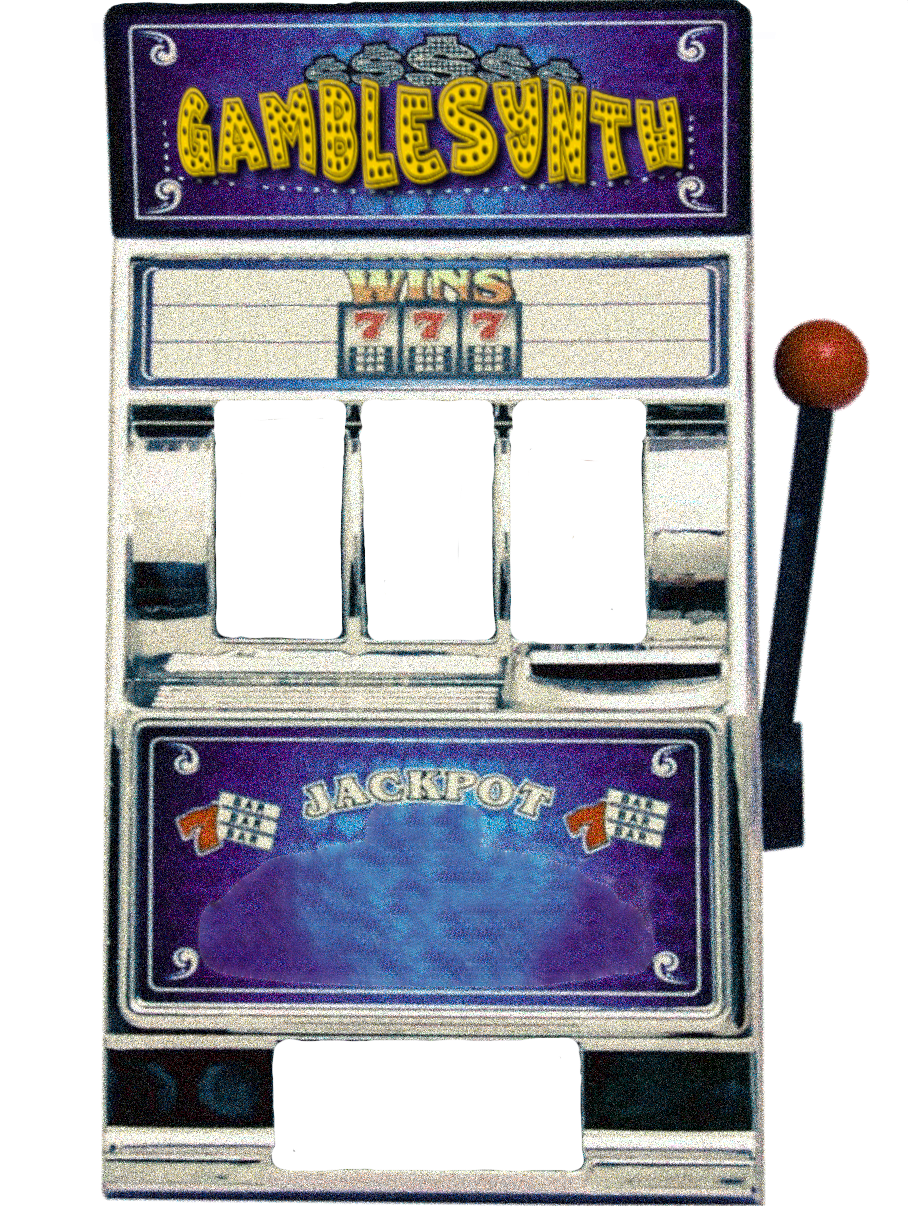
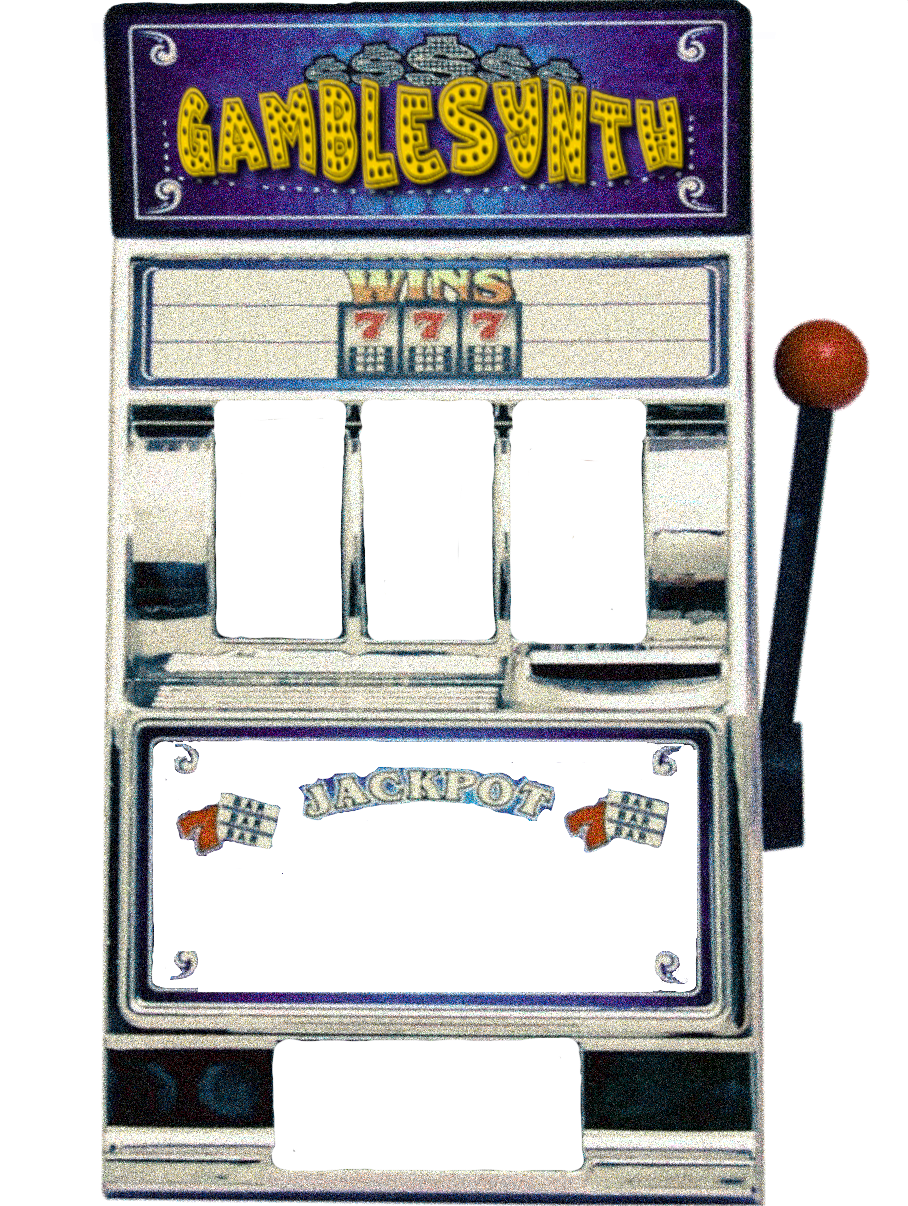
New cabinet: keyboard in the JACKPOT window, seed in the coin tray
The updated artwork turns the JACKPOT panel into a real cut-out, so the
keyboard now sits inside the machine rather than below it.

Getting the keys *under* the cabinet needed a change of approach: JUCE child
components always draw above their parent, so the keyboard would have covered
the artwork. The cabinet is now drawn by a mouse-transparent overlay layered
above the keyboard and below every control - keys show through the window with
the frame overlapping them, and clicks still reach the keys.

The JACKPOT banner is opaque down to y=856, measured off the alpha channel, so
the keys start below it instead of being half-hidden by it. Both cut-outs get a
dark backing, without which they showed raw backdrop and nothing on them was
readable.

Seed display, entry and GO now live together in the coin tray. Transport and
meter moved up to the WINS strip.

Changed region(s): [[0.1542, 0.6136, 0.7709, 0.8284]]

diff --git a/src/PluginEditor.cpp b/src/PluginEditor.cpp
@@ -68,6 +68,14 @@ GambleSynthEditor::GambleSynthEditor (GambleSynthProcessor& p)
         for (int k = 0; k < 3; ++k)
             addAndMakeVisible (reels.add (new ReelDisplay (proc, (ReelDisplay::Kind) k)));
 
+        // Cabinet sits above the keyboard but below every control, so the keys
+        // show through the JACKPOT window while buttons stay clickable.
+        overlay = std::make_unique<MachineOverlay> (skin);
+        addAndMakeVisible (*overlay);
+        keyboard.toBack();      // bottom of the stack
+        overlay->toBack();      // then the cabinet, just above it
+        keyboard.toBack();
+
         // Over artwork every control is a hotspot, not a slab. The lever becomes
         // the roll trigger and the ROLL button disappears into it.
         setLookAndFeel (&skinned);
@@ -224,8 +232,16 @@ void GambleSynthEditor::paint (juce::Graphics& g)
 
         }
 
-        g.drawImage (skin, artArea.toFloat(),
-                     juce::RectanglePlacement::stretchToFit, false);
+        // The cut-outs are holes in the artwork, so without a backing they show
+        // raw backdrop and nothing on them is readable.
+        {
+            const auto& L = Skin::layout();
+            g.setColour (juce::Colour (0xff0a0a0a));
+            g.fillRect (Skin::place (L.jackpotWindow, artArea));
+            g.fillRect (Skin::place (L.coinTray, artArea));
+        }
+
+        // The cabinet itself is drawn by the overlay, above the keyboard.
 
         // Dev mode outlines every hotspot over the art, so a control that has
         // drifted from its hole is obvious instead of subtly wrong.
@@ -271,12 +287,8 @@ void GambleSynthEditor::resized()
             bounds.removeFromRight (6);
         }
 
-        // The cabinet has no keyboard on it, so one lives underneath.
-        const int keyH = juce::jlimit (70, 150, bounds.getHeight() / 8);
-        auto keys = bounds.removeFromBottom (keyH);
-        keyboard.setBounds (keys.reduced (bounds.getWidth() / 12, 4));
-
         artArea = Skin::fitArtwork (bounds);
+        if (overlay != nullptr) overlay->setBounds (artArea);
         layoutFromSkin (artArea);
         return;
     }
@@ -289,7 +301,6 @@ void GambleSynthEditor::layoutFromSkin (juce::Rectangle<int> art)
     const auto& L = Skin::layout();
     auto at = [art] (juce::Rectangle<float> norm) { return Skin::place (norm, art); };
 
-    rollButton.setBounds  (at (L.roll));
     seedLabel.setBounds   (at (L.seedDisplay));
     seedEditor.setBounds  (at (L.seedEntry));
     goButton.setBounds    (at (L.go));
@@ -300,6 +311,7 @@ void GambleSynthEditor::layoutFromSkin (juce::Rectangle<int> art)
     chaosButton.setBounds (at (L.chaos));
     meter.setBounds       (at (L.meter));
     rollButton.setBounds  (at (L.lever));      // the lever *is* the roll button
+    keyboard.setBounds    (at (L.keyboard));   // shows through the JACKPOT window
 
     for (int k = 0; k < reels.size(); ++k)
         reels[k]->setBounds (at (L.reel (k)));
@@ -310,7 +322,8 @@ void GambleSynthEditor::layoutFromSkin (juce::Rectangle<int> art)
     for (int k = 3; k < lockButtons.size(); ++k)
         lockButtons[k]->setBounds ({});          // reels 4 and 5 have no window
 
-    keyboard.setKeyWidth (juce::jmax (14.0f, (float) keyboard.getWidth() / 21.0f));
+    // Three octaves across the window, whatever size it is drawn at.
+    keyboard.setKeyWidth (juce::jmax (10.0f, (float) keyboard.getWidth() / 21.0f));
 }
 
 void GambleSynthEditor::layoutPlain()

diff --git a/src/Skin.h b/src/Skin.h
@@ -58,23 +58,28 @@ namespace Skin
         // The lever: knob measured at 798,319; the stem runs down to y=851.
         juce::Rectangle<float> lever { px (758.0f, 300.0f, 112.0f, 560.0f) };
 
-        // The JACKPOT panel carries everything to do with the seed.
-        juce::Rectangle<float> seedDisplay { px (215.0f, 800.0f, 425.0f,  86.0f) };
-        juce::Rectangle<float> seedEntry   { px (215.0f, 900.0f, 250.0f,  62.0f) };
-        juce::Rectangle<float> go          { px (480.0f, 900.0f, 160.0f,  62.0f) };
+        // The JACKPOT window is a real cut-out, and the keyboard shows through
+        // it — drawn beneath the cabinet so the frame overlaps the keys. The
+        // banner decal is opaque down to y=856, so the keys start below it and
+        // the whole window gets a dark backing rather than raw backdrop.
+        juce::Rectangle<float> jackpotWindow { px (152.0f, 741.0f, 545.0f, 251.0f) };
+        juce::Rectangle<float> keyboard      { px (158.0f, 858.0f, 533.0f, 128.0f) };
+        juce::Rectangle<float> coinTray      { px (272.0f, 1038.0f, 312.0f, 133.0f) };
 
-        // The coin tray at the bottom.
-        juce::Rectangle<float> meter { px (272.0f, 1038.0f, 312.0f, 133.0f) };
+        // The coin tray gathers everything to do with the seed.
+        juce::Rectangle<float> seedDisplay { px (282.0f, 1044.0f, 292.0f, 42.0f) };
+        juce::Rectangle<float> seedEntry   { px (282.0f, 1092.0f, 188.0f, 40.0f) };
+        juce::Rectangle<float> go          { px (478.0f, 1092.0f,  96.0f, 40.0f) };
 
-        // The WINS strip above the reels, left of the 777 graphic.
-        juce::Rectangle<float> undo  { px (150.0f, 285.0f,  74.0f, 60.0f) };
-        juce::Rectangle<float> redo  { px (232.0f, 285.0f,  74.0f, 60.0f) };
-        juce::Rectangle<float> save  { px (150.0f, 668.0f, 150.0f, 48.0f) };
-        juce::Rectangle<float> load  { px (310.0f, 668.0f, 150.0f, 48.0f) };
-        juce::Rectangle<float> chaos { px (470.0f, 668.0f, 180.0f, 48.0f) };
+        // The WINS strip up top carries the transport and the meter.
+        juce::Rectangle<float> undo  { px (160.0f, 300.0f,  70.0f, 56.0f) };
+        juce::Rectangle<float> redo  { px (238.0f, 300.0f,  70.0f, 56.0f) };
+        juce::Rectangle<float> meter { px (540.0f, 306.0f, 162.0f, 44.0f) };
 
-        // No keyboard on the cabinet, so it lives below it - see keyboardStrip.
-        juce::Rectangle<float> roll { px (272.0f, 1038.0f, 312.0f, 133.0f) };
+        // The band between the reels and the window.
+        juce::Rectangle<float> save  { px (152.0f, 664.0f, 170.0f, 52.0f) };
+        juce::Rectangle<float> load  { px (334.0f, 664.0f, 170.0f, 52.0f) };
+        juce::Rectangle<float> chaos { px (516.0f, 664.0f, 180.0f, 52.0f) };
     };
 
     inline const Layout& layout()

diff --git a/src/PluginEditor.h b/src/PluginEditor.h
@@ -55,6 +55,26 @@ private:
     GambleSynthProcessor& proc;
 };
 
+// Draws the cabinet on top of the keyboard, so the keys show through the
+// JACKPOT cut-out with the frame overlapping them. Mouse-transparent, so
+// clicking a key still reaches the keyboard underneath.
+struct MachineOverlay : juce::Component
+{
+    explicit MachineOverlay (const juce::Image& art) : image (art)
+    {
+        setInterceptsMouseClicks (false, false);
+    }
+
+    void paint (juce::Graphics& g) override
+    {
+        if (image.isValid())
+            g.drawImage (image, getLocalBounds().toFloat(),
+                         juce::RectanglePlacement::stretchToFit, false);
+    }
+
+    const juce::Image& image;
+};
+
 class GambleSynthEditor : public juce::AudioProcessorEditor
 {
 public:
@@ -119,6 +139,7 @@ private:
     // none, in which case the plain drawn UI is used instead.
     juce::Image skin;
     juce::Image backdrop;              // fills the window behind the cabinet
+    std::unique_ptr<MachineOverlay> overlay;
     juce::Rectangle<int> artArea;      // where the artwork is actually drawn
     juce::OwnedArray<ReelDisplay> reels;
 
